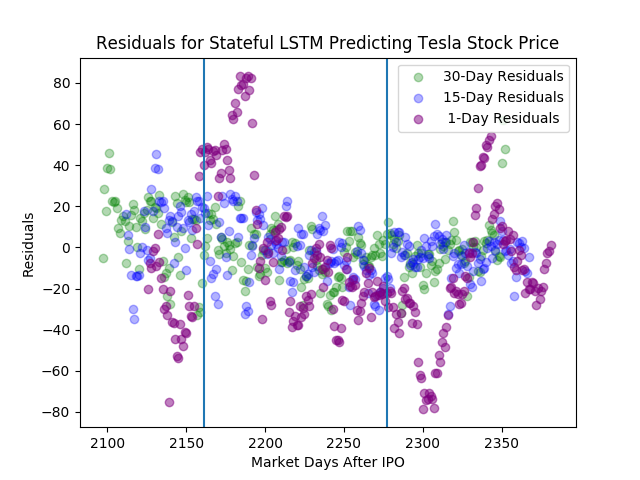
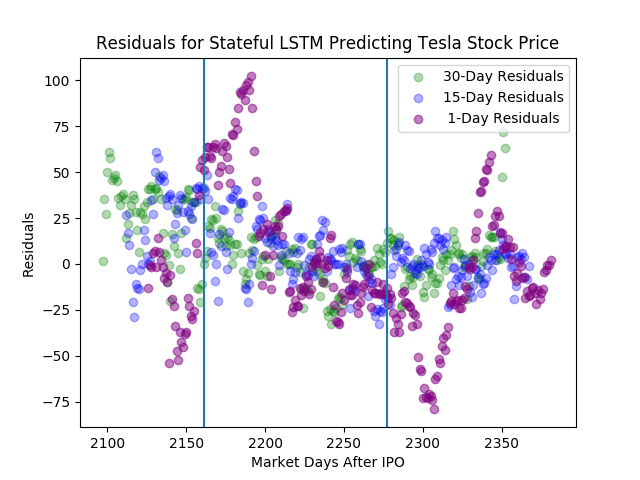
added dropout layers, think about validation data

diff --git a/tesla.py b/tesla.py
@@ -92,7 +92,7 @@ def streamlined_model(data, bPar, epochs, df_name):
 
     # Building the LSTM
     # Importing the Keras libraries and packages
-    from keras.layers import Dense
+    from keras.layers import Dense, Dropout
     from keras.layers import Input, LSTM
     from keras.models import Model
     import h5py
@@ -104,10 +104,11 @@ def streamlined_model(data, bPar, epochs, df_name):
     inputs_1_mae = Input(batch_shape=(bPar['batch_size'], bPar['timesteps'],1) )
     #each layer is the input of the next layer
     lstm_1_mae = LSTM(10, stateful=True, return_sequences=True)(inputs_1_mae)
-    lstm_2_mae = LSTM(10, stateful=True, return_sequences=True)(lstm_1_mae)
-
+    dropout_1 = Dropout(0.3)(lstm_1_mae)
+    lstm_2_mae = LSTM(10, stateful=True, return_sequences=True)(dropout_1)
+    dropout_2 = Dropout(0.3)(lstm_2_mae)
     # units, essentially dimensions
-    output_1_mae = Dense(units = 1)(lstm_2_mae)
+    output_1_mae = Dense(units = 1)(dropout_2)
 
     regressor_mae = Model(inputs=inputs_1_mae, outputs = output_1_mae)
 
